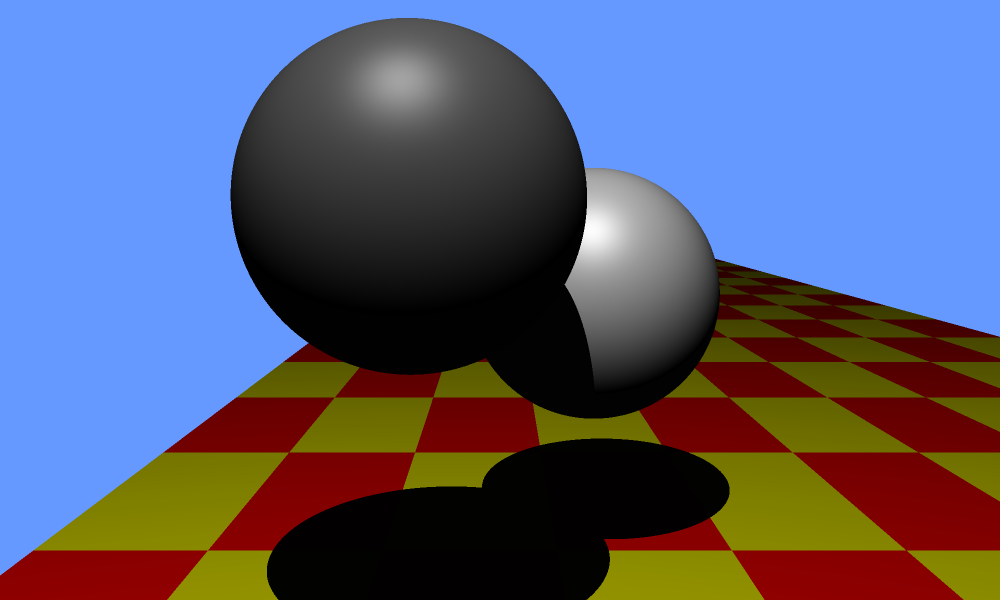
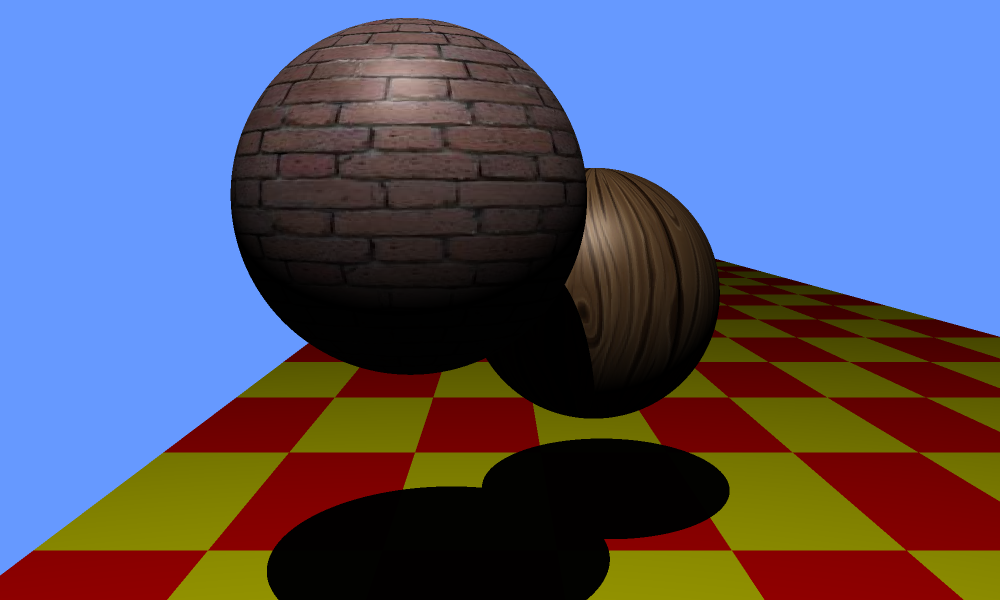
Texture images and texture material type. Fixed UV mapping for sphere.

Changed region(s): [[0.248, 0.03, 0.558, 0.33], [0.558, 0.27, 0.744, 0.63], [0.341, 0.33, 0.434, 0.36]]

diff --git a/raytracer/src/geometry/material.rs b/raytracer/src/geometry/material.rs
@@ -1,6 +1,7 @@
 use std::any::Any;
 
 use glam::{Vec2, Vec3};
+use image::{DynamicImage, GenericImageView, ImageReader};
 
 pub trait Material: Any {
     fn get_color(&self, uv: Option<Vec2>) -> Vec3;
@@ -57,5 +58,52 @@ impl<'a> Material for ProceduralMaterial<'static> {
 
     fn get_spec_color(&self, uv: Option<Vec2>) -> Vec3 {
         (self.specular_color_func)(uv.unwrap())
+    }
+}
+
+#[derive(Clone)]
+pub struct TextureMaterial {
+    pub texture_img: DynamicImage,
+    pub img_width: u32,
+    pub img_height: u32,
+}
+
+impl TextureMaterial {
+    pub fn new(image_path: String) -> Self {
+        let texture = ImageReader::open(image_path).unwrap().decode().unwrap();
+        let img_width = texture.width();
+        let img_height = texture.height();
+
+        Self {
+            texture_img: texture,
+            img_width,
+            img_height,
+        }
+    }
+}
+
+impl Material for TextureMaterial {
+    fn get_color(&self, uv: Option<Vec2>) -> Vec3 {
+        let uv = uv.unwrap();
+        let scaled_uv = Vec2::new(
+            uv.x * (self.img_width - 1) as f32,
+            uv.y * (self.img_height - 1) as f32,
+        );
+        let pixel_value = Vec2::new(scaled_uv.x.floor(), scaled_uv.y.floor());
+
+        let rgba = self
+            .texture_img
+            .get_pixel(pixel_value.x as u32, pixel_value.y as u32)
+            .0;
+
+        Vec3::new(
+            rgba[0] as f32 / 255.0,
+            rgba[1] as f32 / 255.0,
+            rgba[2] as f32 / 255.0,
+        )
+    }
+
+    fn get_spec_color(&self, _: Option<Vec2>) -> Vec3 {
+        Vec3::new(1.0, 1.0, 1.0)
     }
 }

diff --git a/raytracer/src/main.rs b/raytracer/src/main.rs
@@ -2,7 +2,7 @@ use glam::{Vec2, Vec3};
 
 use crate::{
     geometry::{
-        material::{FlatMaterial, ProceduralMaterial},
+        material::{FlatMaterial, ProceduralMaterial, TextureMaterial},
         primitives::{sphere::Sphere, triangle::Triangle},
     },
     lighting::{illumination::IlluminationType, light_source::LightSource},
@@ -135,13 +135,9 @@ fn create_floor() -> (Triangle, Triangle) {
 }
 
 fn create_spheres() -> (Sphere, Sphere) {
-    let spec_color = Vec3::new(1.0, 1.0, 1.0);
+    let sphere_1_material = TextureMaterial::new(String::from("./assets/brick.jpg"));
 
-    let sphere_1_color = Vec3::new(0.5, 0.5, 0.5);
-    let sphere_1_material = FlatMaterial::new(sphere_1_color, spec_color);
-
-    let sphere_2_color = Vec3::new(1.0, 1.0, 1.0);
-    let sphere_2_material = FlatMaterial::new(sphere_2_color, spec_color);
+    let sphere_2_material = TextureMaterial::new(String::from("./assets/wood.jpg"));
 
     let sphere_radius = 2.0;
 

diff --git a/raytracer/src/geometry/primitives/sphere.rs b/raytracer/src/geometry/primitives/sphere.rs
@@ -51,8 +51,8 @@ impl Sphere {
             .normalize();
 
         let model_norm = model_space.xyz().normalize();
-        let u = 0.5 + model_norm.z.atan2(model_norm.x) / 2.0 * PI;
-        let v = 0.5 + model_norm.y.asin() / PI;
+        let u = model_norm.z.atan2(model_norm.x) / (2.0 * PI) + 0.5;
+        let v = model_norm.y.acos() / PI;
 
         Vec2::new(u, v)
     }
